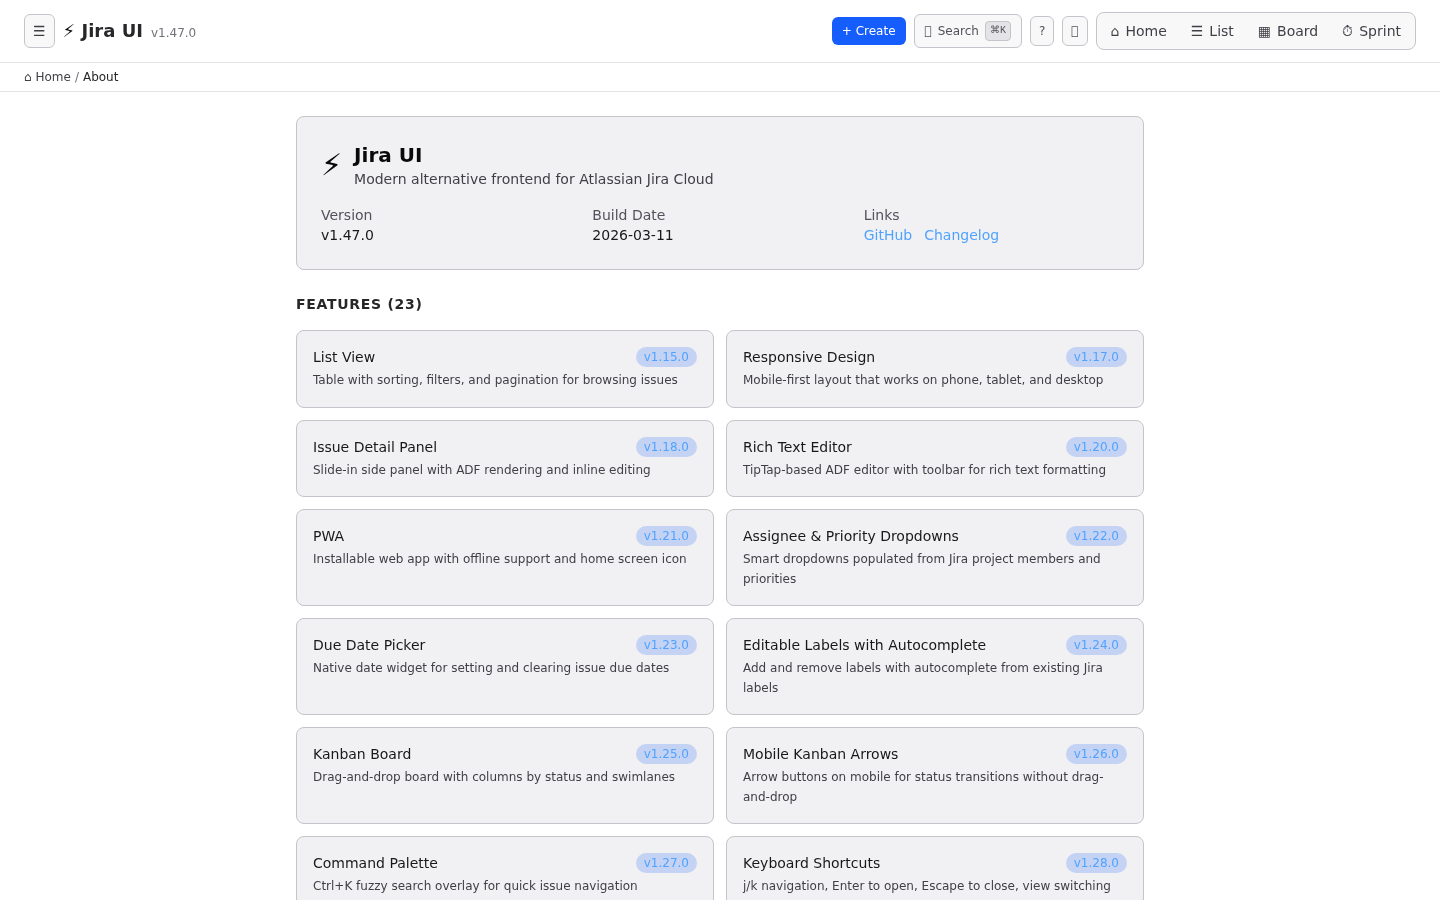
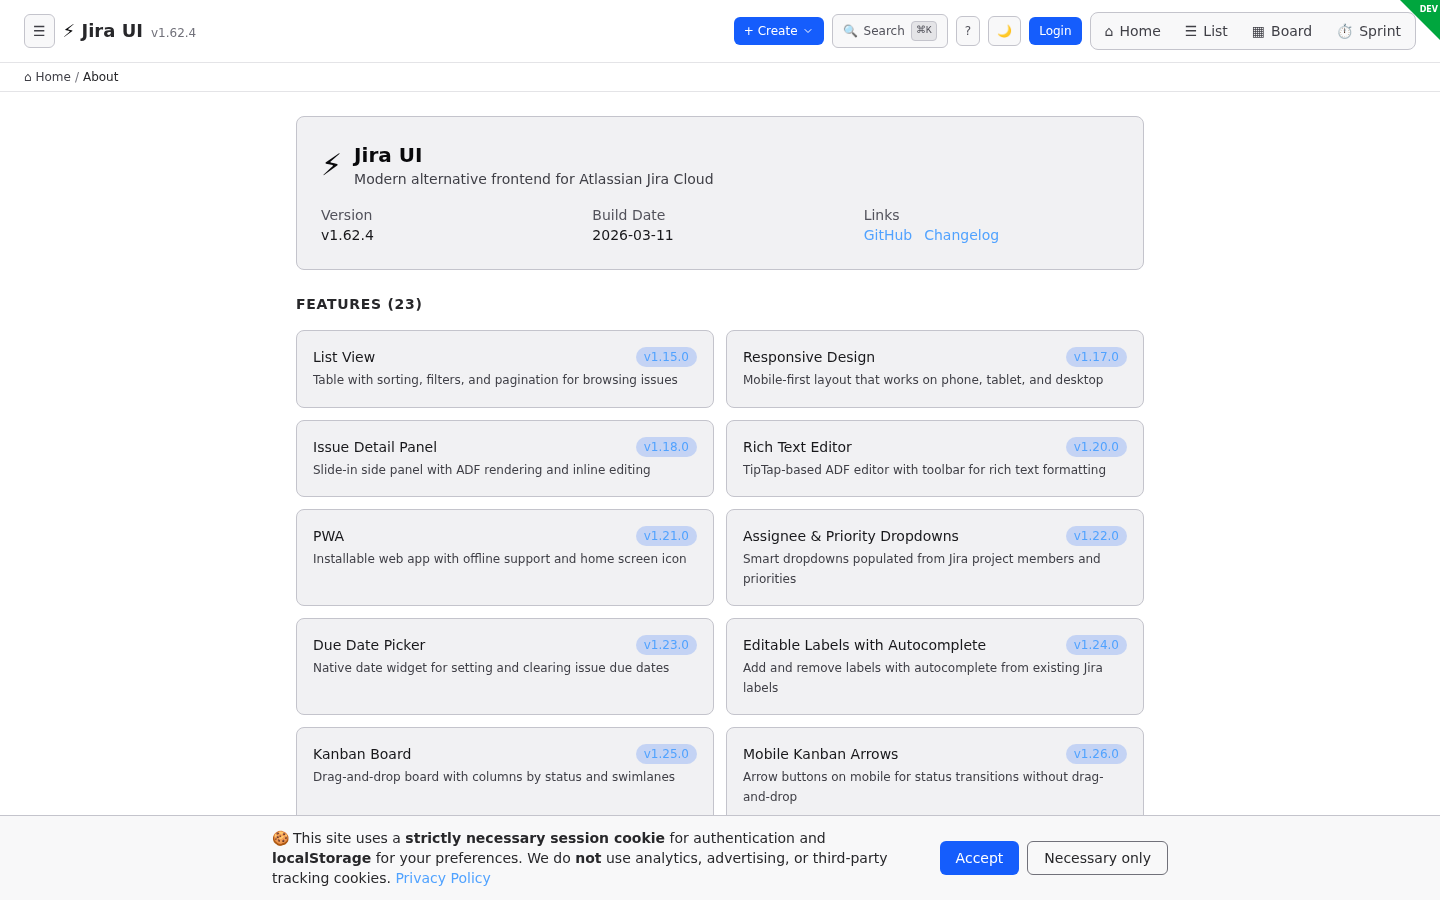
chore: refresh 17 screenshots with mock data + fix E2E fixtures
- Added /api/settings + /auth/me mocks to fixtures (app was showing
  login page without these)
- Fixed screenshot test: use 'c' shortcut for create modal (was using
  old aria-label that no longer exists)
- All 17 screenshots regenerated with current UI

diff --git a/frontend/e2e/fixtures.ts b/frontend/e2e/fixtures.ts
@@ -118,6 +118,24 @@ export async function mockAllApiRoutes(page: Page) {
   await page.route("**/registerSW.js", (route) => route.fulfill({ body: "", contentType: "application/javascript" }));
   await page.route("**/workbox-*.js", (route) => route.fulfill({ body: "", contentType: "application/javascript" }));
 
+  // Settings + Auth — must return valid responses so the app doesn't show login page
+  await page.route("**/api/settings", (route) =>
+    route.fulfill({ json: {
+      jira_host: "https://demo.atlassian.net",
+      jira_email: "demo@example.com",
+      jira_api_token_masked: "••••abcd",
+      atlassian_client_id: "",
+      atlassian_client_secret_masked: "",
+      oauth_configured: false,
+      auth_api_token_enabled: true,
+      auth_oauth_enabled: false,
+      app_env: "development",
+    }})
+  );
+  await page.route("**/auth/me", (route) =>
+    route.fulfill({ json: { authenticated: false } })
+  );
+
   // Order matters — more specific patterns first
   await page.route("**/api/projects/*/members", (route) =>
     route.fulfill({ json: MOCK_MEMBERS })

diff --git a/frontend/e2e/screenshots.spec.ts b/frontend/e2e/screenshots.spec.ts
@@ -58,8 +58,8 @@ test("capture desktop screenshots", async ({ page }) => {
   await page.screenshot({ path: `${S}/08-command-palette-results.png` });
   await page.keyboard.press("Escape");
 
-  // 9. Create Issue Modal
-  await page.getByLabel("Create issue").click();
+  // 9. Create Issue Modal (use 'c' shortcut to open directly)
+  await page.keyboard.press("c");
   await page.waitForTimeout(500);
   await page.screenshot({ path: `${S}/09-create-issue.png` });
   await page.keyboard.press("Escape");
